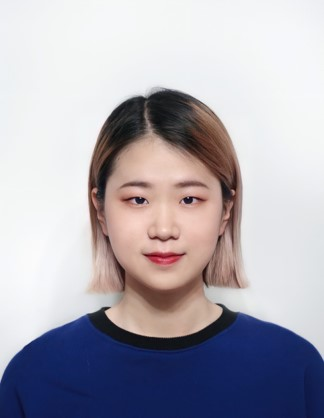
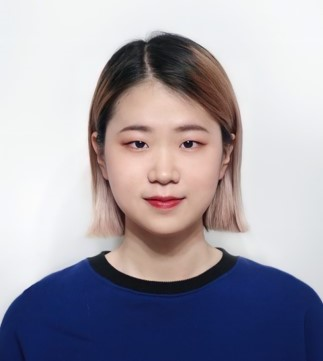
build the website with the latest source data - Wed Jun  9 08:27:23 UTC 2021

Changed region(s): [[0.0, 0.0609, 1.0, 0.9141]]

diff --git a/docs/YeongJun_Hwang/index.html b/docs/YeongJun_Hwang/index.html
@@ -5,7 +5,7 @@
     <meta charset="utf-8">
     <meta http-equiv="X-UA-Compatible" content="IE=edge,chrome=1">
 
-    <title>YeongJun Hwang</title>
+    <title>JinYeong Bak</title>
 
     <link rel="stylesheet" href="/assets/styles/github-light.css">
     <link rel="stylesheet" href="/assets/styles/personal.css">
@@ -14,37 +14,37 @@
 <body>
     <div class="container">
         <header>
-            <h1>YeongJun Hwang</h1>
-            <img src="/assets/images/members/HYJ.jpg" style="width:190px;"><br />
-            <p>Master Student<br />
+            <h1>JinYeong Bak</h1>
+            <img src="/assets/images/members/jyb.jpg" style="width:190px;"><br />
+            <p>Ph.D.<br />
 <a href="https://hli.skku.edu">HLI Lab</a>, <a href="https://www.skku.edu/">SKKU</a></p>
-<p><a href="mailto:hmtyj2@skku.edu">Email</a> / <a href="https://www.linkedin.com/in/yeongjun-hwang-520877189/">LinkedIn</a> / <a href="https://github.com/hmtyj2">GitHub</a></p>
+<p><a href="mailto:jy.bak@skku.edu">Email</a> / <a href="https://www.linkedin.com/in/jy.bak/">LinkedIn</a> / <a href="https://github.com/nosyu">GitHub</a></p>
         </header>
 
         <section class="content">
             
             <h2>About</h2>
-<p>Hi. I'm YeongJun Hwang, master course student @ HLI_LAB @ SKKU South Korea.
-My research topic is NLG, Open-domain dialogue system and I'm especially interested in personalized dialogue system.</p>
+<p>Hi.</p>
             
             <h2>Education</h2>
 <ul>
+<li><strong>KAIST</strong>, South Korea<br />
+  Ph.D., School of Computing, 2013 - 2020</li>
+<li><strong>KAIST</strong>, South Korea<br />
+  M.S., Computer Science, 2013</li>
 <li><strong>SKKU</strong>, South Korea<br />
-  M.S., Artificial Intellegence , 2021 ~</li>
-<li><strong>SKKU</strong>, South Korea<br />
-  B.S., Computer Engineering, 2015 ~ 2021</li>
-</ul>
-            
-            <h2>Industry - University Cooperation Project</h2>
-<ul>
-<li><strong>SK Planet</strong>
-QnA system for AI speaker in hospital, 2019.12 ~ 2020.02</li>
+  B.S., Computer Engineering, 2011</li>
 </ul>
             
             <h2>Teaching Experiences</h2>
 <ul>
-<li><strong>Probability and random process</strong>, SKKU
-  Teaching Assistant (Spring 2021)  </li>
+<li><strong>Introduction to Programming</strong>, KAIST
+  Head Teaching Assistant &amp; Lecturer (Spring/Fall 2017, Spring/Fall 2018, Spring/Fall 2019, Spring/Fall 2020)
+  Teaching Assistant (Spring/Fall 2011, Spring 2013, Spring/Fall 2014)  </li>
+<li><strong>Data Structure</strong>, KAIST
+  Teaching Assistant (Fall 2013, Fall 2015, and Spring/Fall 2016)</li>
+<li><strong>UX-oriented Platform Design Studio</strong>, KAIST
+  Head Teaching Assistant (Fall 2014)</li>
 </ul>
             
             <h2>Reference</h2>

diff --git a/docs/dongjin_cv/index.html b/docs/dongjin_cv/index.html
@@ -5,7 +5,7 @@
     <meta charset="utf-8">
     <meta http-equiv="X-UA-Compatible" content="IE=edge,chrome=1">
 
-    <title>YeongJun Hwang</title>
+    <title>JinYeong Bak</title>
 
     <link rel="stylesheet" href="/assets/styles/github-light.css">
     <link rel="stylesheet" href="/assets/styles/personal.css">
@@ -14,37 +14,37 @@
 <body>
     <div class="container">
         <header>
-            <h1>YeongJun Hwang</h1>
-            <img src="/assets/images/members/HYJ.jpg" style="width:190px;"><br />
-            <p>Master Student<br />
+            <h1>JinYeong Bak</h1>
+            <img src="/assets/images/members/jyb.jpg" style="width:190px;"><br />
+            <p>Ph.D.<br />
 <a href="https://hli.skku.edu">HLI Lab</a>, <a href="https://www.skku.edu/">SKKU</a></p>
-<p><a href="mailto:hmtyj2@skku.edu">Email</a> / <a href="https://www.linkedin.com/in/yeongjun-hwang-520877189/">LinkedIn</a> / <a href="https://github.com/hmtyj2">GitHub</a></p>
+<p><a href="mailto:jy.bak@skku.edu">Email</a> / <a href="https://www.linkedin.com/in/jy.bak/">LinkedIn</a> / <a href="https://github.com/nosyu">GitHub</a></p>
         </header>
 
         <section class="content">
             
             <h2>About</h2>
-<p>Hi. I'm YeongJun Hwang, master course student @ HLI_LAB @ SKKU South Korea.
-My research topic is NLG, Open-domain dialogue system and I'm especially interested in personalized dialogue system.</p>
+<p>Hi.</p>
             
             <h2>Education</h2>
 <ul>
+<li><strong>KAIST</strong>, South Korea<br />
+  Ph.D., School of Computing, 2013 - 2020</li>
+<li><strong>KAIST</strong>, South Korea<br />
+  M.S., Computer Science, 2013</li>
 <li><strong>SKKU</strong>, South Korea<br />
-  M.S., Artificial Intellegence , 2021 ~</li>
-<li><strong>SKKU</strong>, South Korea<br />
-  B.S., Computer Engineering, 2015 ~ 2021</li>
-</ul>
-            
-            <h2>Industry - University Cooperation Project</h2>
-<ul>
-<li><strong>SK Planet</strong>
-QnA system for AI speaker in hospital, 2019.12 ~ 2020.02</li>
+  B.S., Computer Engineering, 2011</li>
 </ul>
             
             <h2>Teaching Experiences</h2>
 <ul>
-<li><strong>Probability and random process</strong>, SKKU
-  Teaching Assistant (Spring 2021)  </li>
+<li><strong>Introduction to Programming</strong>, KAIST
+  Head Teaching Assistant &amp; Lecturer (Spring/Fall 2017, Spring/Fall 2018, Spring/Fall 2019, Spring/Fall 2020)
+  Teaching Assistant (Spring/Fall 2011, Spring 2013, Spring/Fall 2014)  </li>
+<li><strong>Data Structure</strong>, KAIST
+  Teaching Assistant (Fall 2013, Fall 2015, and Spring/Fall 2016)</li>
+<li><strong>UX-oriented Platform Design Studio</strong>, KAIST
+  Head Teaching Assistant (Fall 2014)</li>
 </ul>
             
             <h2>Reference</h2>

diff --git a/docs/dongjun_kang/index.html b/docs/dongjun_kang/index.html
@@ -5,7 +5,7 @@
     <meta charset="utf-8">
     <meta http-equiv="X-UA-Compatible" content="IE=edge,chrome=1">
 
-    <title>YeongJun Hwang</title>
+    <title>JinYeong Bak</title>
 
     <link rel="stylesheet" href="/assets/styles/github-light.css">
     <link rel="stylesheet" href="/assets/styles/personal.css">
@@ -14,37 +14,37 @@
 <body>
     <div class="container">
         <header>
-            <h1>YeongJun Hwang</h1>
-            <img src="/assets/images/members/HYJ.jpg" style="width:190px;"><br />
-            <p>Master Student<br />
+            <h1>JinYeong Bak</h1>
+            <img src="/assets/images/members/jyb.jpg" style="width:190px;"><br />
+            <p>Ph.D.<br />
 <a href="https://hli.skku.edu">HLI Lab</a>, <a href="https://www.skku.edu/">SKKU</a></p>
-<p><a href="mailto:hmtyj2@skku.edu">Email</a> / <a href="https://www.linkedin.com/in/yeongjun-hwang-520877189/">LinkedIn</a> / <a href="https://github.com/hmtyj2">GitHub</a></p>
+<p><a href="mailto:jy.bak@skku.edu">Email</a> / <a href="https://www.linkedin.com/in/jy.bak/">LinkedIn</a> / <a href="https://github.com/nosyu">GitHub</a></p>
         </header>
 
         <section class="content">
             
             <h2>About</h2>
-<p>Hi. I'm YeongJun Hwang, master course student @ HLI_LAB @ SKKU South Korea.
-My research topic is NLG, Open-domain dialogue system and I'm especially interested in personalized dialogue system.</p>
+<p>Hi.</p>
             
             <h2>Education</h2>
 <ul>
+<li><strong>KAIST</strong>, South Korea<br />
+  Ph.D., School of Computing, 2013 - 2020</li>
+<li><strong>KAIST</strong>, South Korea<br />
+  M.S., Computer Science, 2013</li>
 <li><strong>SKKU</strong>, South Korea<br />
-  M.S., Artificial Intellegence , 2021 ~</li>
-<li><strong>SKKU</strong>, South Korea<br />
-  B.S., Computer Engineering, 2015 ~ 2021</li>
-</ul>
-            
-            <h2>Industry - University Cooperation Project</h2>
-<ul>
-<li><strong>SK Planet</strong>
-QnA system for AI speaker in hospital, 2019.12 ~ 2020.02</li>
+  B.S., Computer Engineering, 2011</li>
 </ul>
             
             <h2>Teaching Experiences</h2>
 <ul>
-<li><strong>Probability and random process</strong>, SKKU
-  Teaching Assistant (Spring 2021)  </li>
+<li><strong>Introduction to Programming</strong>, KAIST
+  Head Teaching Assistant &amp; Lecturer (Spring/Fall 2017, Spring/Fall 2018, Spring/Fall 2019, Spring/Fall 2020)
+  Teaching Assistant (Spring/Fall 2011, Spring 2013, Spring/Fall 2014)  </li>
+<li><strong>Data Structure</strong>, KAIST
+  Teaching Assistant (Fall 2013, Fall 2015, and Spring/Fall 2016)</li>
+<li><strong>UX-oriented Platform Design Studio</strong>, KAIST
+  Head Teaching Assistant (Fall 2014)</li>
 </ul>
             
             <h2>Reference</h2>

diff --git a/docs/hyunjin_kim/index.html b/docs/hyunjin_kim/index.html
@@ -5,7 +5,7 @@
     <meta charset="utf-8">
     <meta http-equiv="X-UA-Compatible" content="IE=edge,chrome=1">
 
-    <title>YeongJun Hwang</title>
+    <title>JinYeong Bak</title>
 
     <link rel="stylesheet" href="/assets/styles/github-light.css">
     <link rel="stylesheet" href="/assets/styles/personal.css">
@@ -14,37 +14,37 @@
 <body>
     <div class="container">
         <header>
-            <h1>YeongJun Hwang</h1>
-            <img src="/assets/images/members/HYJ.jpg" style="width:190px;"><br />
-            <p>Master Student<br />
+            <h1>JinYeong Bak</h1>
+            <img src="/assets/images/members/jyb.jpg" style="width:190px;"><br />
+            <p>Ph.D.<br />
 <a href="https://hli.skku.edu">HLI Lab</a>, <a href="https://www.skku.edu/">SKKU</a></p>
-<p><a href="mailto:hmtyj2@skku.edu">Email</a> / <a href="https://www.linkedin.com/in/yeongjun-hwang-520877189/">LinkedIn</a> / <a href="https://github.com/hmtyj2">GitHub</a></p>
+<p><a href="mailto:jy.bak@skku.edu">Email</a> / <a href="https://www.linkedin.com/in/jy.bak/">LinkedIn</a> / <a href="https://github.com/nosyu">GitHub</a></p>
         </header>
 
         <section class="content">
             
             <h2>About</h2>
-<p>Hi. I'm YeongJun Hwang, master course student @ HLI_LAB @ SKKU South Korea.
-My research topic is NLG, Open-domain dialogue system and I'm especially interested in personalized dialogue system.</p>
+<p>Hi.</p>
             
             <h2>Education</h2>
 <ul>
+<li><strong>KAIST</strong>, South Korea<br />
+  Ph.D., School of Computing, 2013 - 2020</li>
+<li><strong>KAIST</strong>, South Korea<br />
+  M.S., Computer Science, 2013</li>
 <li><strong>SKKU</strong>, South Korea<br />
-  M.S., Artificial Intellegence , 2021 ~</li>
-<li><strong>SKKU</strong>, South Korea<br />
-  B.S., Computer Engineering, 2015 ~ 2021</li>
-</ul>
-            
-            <h2>Industry - University Cooperation Project</h2>
-<ul>
-<li><strong>SK Planet</strong>
-QnA system for AI speaker in hospital, 2019.12 ~ 2020.02</li>
+  B.S., Computer Engineering, 2011</li>
 </ul>
             
             <h2>Teaching Experiences</h2>
 <ul>
-<li><strong>Probability and random process</strong>, SKKU
-  Teaching Assistant (Spring 2021)  </li>
+<li><strong>Introduction to Programming</strong>, KAIST
+  Head Teaching Assistant &amp; Lecturer (Spring/Fall 2017, Spring/Fall 2018, Spring/Fall 2019, Spring/Fall 2020)
+  Teaching Assistant (Spring/Fall 2011, Spring 2013, Spring/Fall 2014)  </li>
+<li><strong>Data Structure</strong>, KAIST
+  Teaching Assistant (Fall 2013, Fall 2015, and Spring/Fall 2016)</li>
+<li><strong>UX-oriented Platform Design Studio</strong>, KAIST
+  Head Teaching Assistant (Fall 2014)</li>
 </ul>
             
             <h2>Reference</h2>

diff --git a/docs/personal_template/index.html b/docs/personal_template/index.html
@@ -5,7 +5,7 @@
     <meta charset="utf-8">
     <meta http-equiv="X-UA-Compatible" content="IE=edge,chrome=1">
 
-    <title>YeongJun Hwang</title>
+    <title>JinYeong Bak</title>
 
     <link rel="stylesheet" href="/assets/styles/github-light.css">
     <link rel="stylesheet" href="/assets/styles/personal.css">
@@ -14,37 +14,37 @@
 <body>
     <div class="container">
         <header>
-            <h1>YeongJun Hwang</h1>
-            <img src="/assets/images/members/HYJ.jpg" style="width:190px;"><br />
-            <p>Master Student<br />
+            <h1>JinYeong Bak</h1>
+            <img src="/assets/images/members/jyb.jpg" style="width:190px;"><br />
+            <p>Ph.D.<br />
 <a href="https://hli.skku.edu">HLI Lab</a>, <a href="https://www.skku.edu/">SKKU</a></p>
-<p><a href="mailto:hmtyj2@skku.edu">Email</a> / <a href="https://www.linkedin.com/in/yeongjun-hwang-520877189/">LinkedIn</a> / <a href="https://github.com/hmtyj2">GitHub</a></p>
+<p><a href="mailto:jy.bak@skku.edu">Email</a> / <a href="https://www.linkedin.com/in/jy.bak/">LinkedIn</a> / <a href="https://github.com/nosyu">GitHub</a></p>
         </header>
 
         <section class="content">
             
             <h2>About</h2>
-<p>Hi. I'm YeongJun Hwang, master course student @ HLI_LAB @ SKKU South Korea.
-My research topic is NLG, Open-domain dialogue system and I'm especially interested in personalized dialogue system.</p>
+<p>Hi.</p>
             
             <h2>Education</h2>
 <ul>
+<li><strong>KAIST</strong>, South Korea<br />
+  Ph.D., School of Computing, 2013 - 2020</li>
+<li><strong>KAIST</strong>, South Korea<br />
+  M.S., Computer Science, 2013</li>
 <li><strong>SKKU</strong>, South Korea<br />
-  M.S., Artificial Intellegence , 2021 ~</li>
-<li><strong>SKKU</strong>, South Korea<br />
-  B.S., Computer Engineering, 2015 ~ 2021</li>
-</ul>
-            
-            <h2>Industry - University Cooperation Project</h2>
-<ul>
-<li><strong>SK Planet</strong>
-QnA system for AI speaker in hospital, 2019.12 ~ 2020.02</li>
+  B.S., Computer Engineering, 2011</li>
 </ul>
             
             <h2>Teaching Experiences</h2>
 <ul>
-<li><strong>Probability and random process</strong>, SKKU
-  Teaching Assistant (Spring 2021)  </li>
+<li><strong>Introduction to Programming</strong>, KAIST
+  Head Teaching Assistant &amp; Lecturer (Spring/Fall 2017, Spring/Fall 2018, Spring/Fall 2019, Spring/Fall 2020)
+  Teaching Assistant (Spring/Fall 2011, Spring 2013, Spring/Fall 2014)  </li>
+<li><strong>Data Structure</strong>, KAIST
+  Teaching Assistant (Fall 2013, Fall 2015, and Spring/Fall 2016)</li>
+<li><strong>UX-oriented Platform Design Studio</strong>, KAIST
+  Head Teaching Assistant (Fall 2014)</li>
 </ul>
             
             <h2>Reference</h2>
